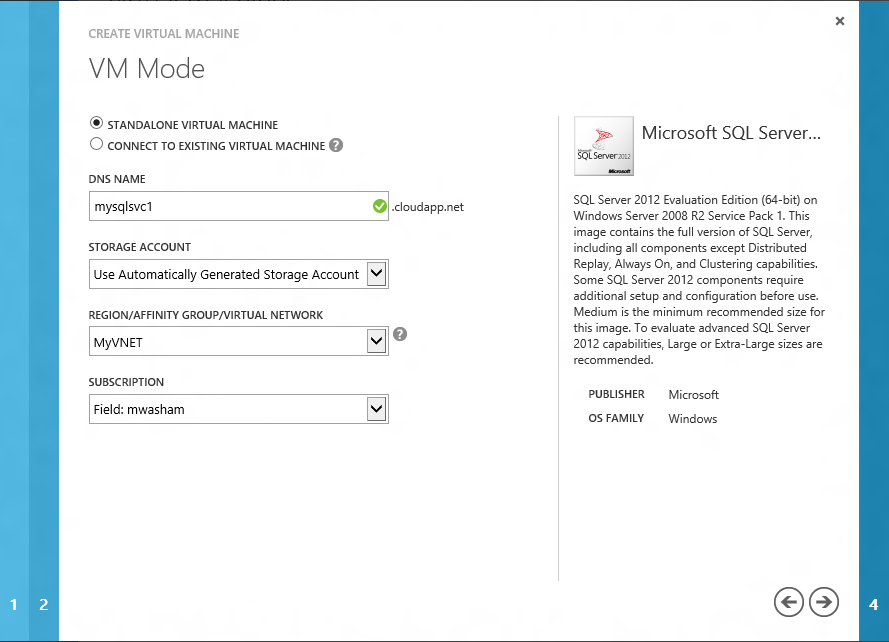
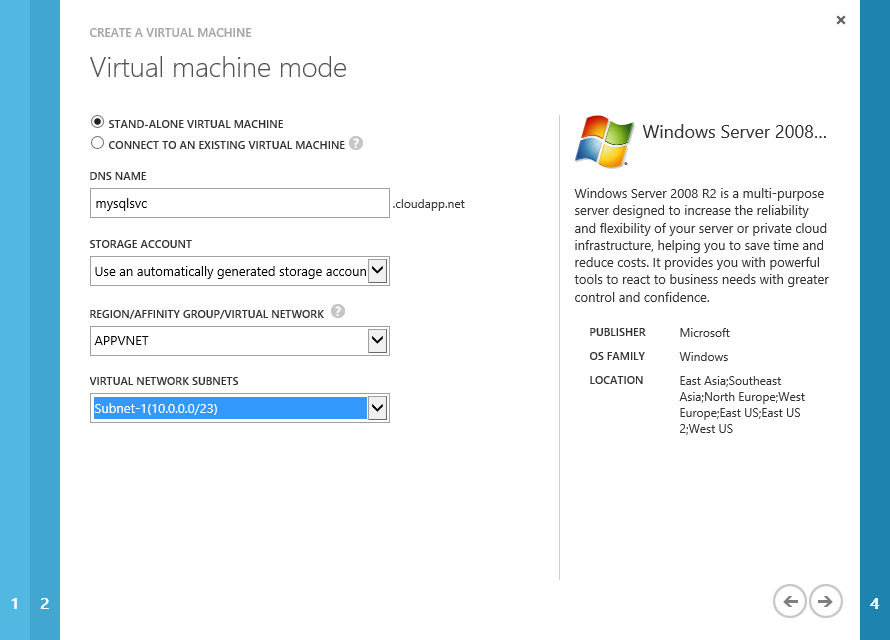
#updated screenshots

diff --git a/Demo.md b/Demo.md
@@ -69,6 +69,8 @@ This demo is composed of the following segments:
 
 1. Provision a new virtual machine using the SQL Server evaluation edition into the virtual network to demonstrate how virtual machines get into the virtual network. 
 
+1. Select the **AppSubnet** Subnet.
+
 	> **Note:** Use the initial steps from **Exercise 1** of the **Connecting a PaaS application to an IaaS Application with a Virtual Network** hands-on lab to walk through the virtual machine creation gallery experience. 
 	>
 	> Do not configure data disks and deploy the virtual machine- just walk through the wizard to show connectivity to the virtual network. Note that you have already done this in another SQL virtual machines. 
@@ -79,11 +81,6 @@ This demo is composed of the following segments:
 
 	> **Speaking Point:** Explain that in order to connect you will select the virtual network to join the virtual machine to the virtual network you just created.
 
-1. Select the **AppSubnet** Subnet.
-
-	![Virtual Machine Options](Images/vm-options.png?raw=true "virtual machine Options")
-	
-	_Virtual Machine Options_
 
 <a name="segment3" />
 ### Segment 3: Configure Windows Azure Cloud Service Project ###
